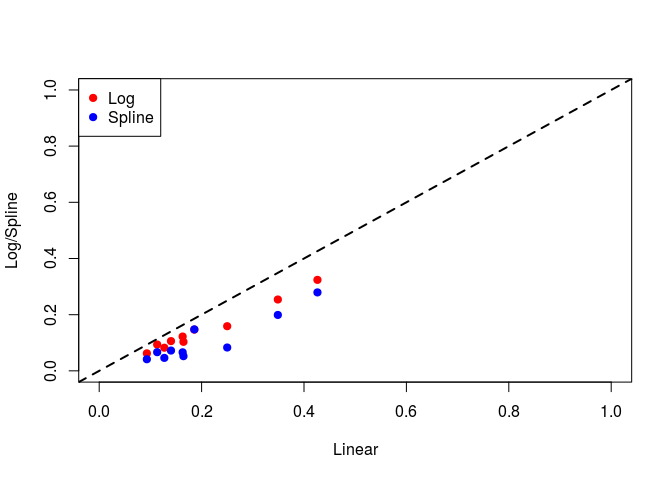
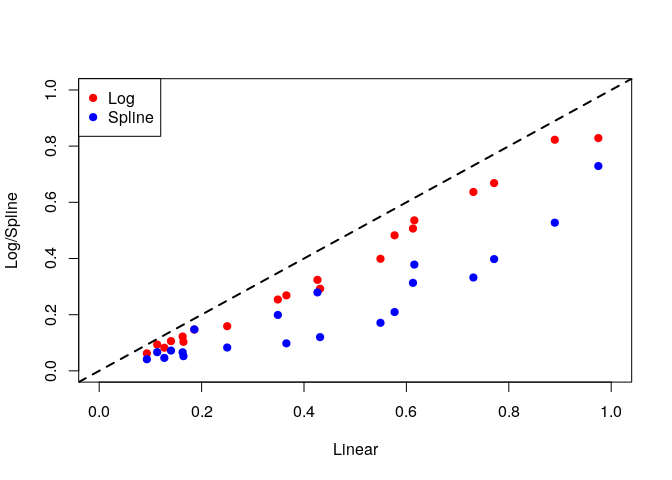
fix bug introduce by reformatting output

diff --git a/docs/competingRisk.md b/docs/competingRisk.md
@@ -6,6 +6,11 @@ We will use the same data that was used in Scrucca *et al* \[-@scrucca2010regres
 ``` r
 set.seed(12345)
 library(casebase)
+```
+
+    ## See example usage at http://sahirbhatnagar.com/casebase/
+
+``` r
 data(bmtcrr)
 head(bmtcrr)
 ```
@@ -191,13 +196,12 @@ summary(model1)
     ## Call:
     ## vglm(formula = formula, family = multinomial(refLevel = 1), data = sampleData)
     ## 
-    ## 
     ## Pearson residuals:
     ##                        Min       1Q   Median        3Q   Max
     ## log(mu[,2]/mu[,1]) -0.2240 -0.06967 -0.03872 -0.014616 46.24
     ## log(mu[,3]/mu[,1]) -0.3356 -0.08920 -0.03671 -0.008251 20.23
     ## 
-    ## Coefficients: 
+    ## Coefficients:
     ##                 Estimate Std. Error z value Pr(>|z|)    
     ## (Intercept):1  -3.527146   0.685168  -5.148 2.63e-07 ***
     ## (Intercept):2  -2.648451   0.463012  -5.720 1.06e-08 ***
@@ -223,6 +227,8 @@ summary(model1)
     ## Number of linear predictors:  2 
     ## 
     ## Names of linear predictors: log(mu[,2]/mu[,1]), log(mu[,3]/mu[,1])
+    ## 
+    ## Dispersion Parameter for multinomial family:   1
     ## 
     ## Residual deviance: 1409.076 on 26444 degrees of freedom
     ## 
@@ -250,13 +256,12 @@ summary(model2)
     ## Call:
     ## vglm(formula = formula, family = multinomial(refLevel = 1), data = sampleData)
     ## 
-    ## 
     ## Pearson residuals:
     ##                        Min       1Q   Median       3Q   Max
     ## log(mu[,2]/mu[,1]) -0.3728 -0.06889 -0.04686 -0.03489 29.01
     ## log(mu[,3]/mu[,1]) -0.7720 -0.07784 -0.05517 -0.04490 22.03
     ## 
-    ## Coefficients: 
+    ## Coefficients:
     ##                 Estimate Std. Error z value Pr(>|z|)    
     ## (Intercept):1  -3.947939   0.704805  -5.601 2.13e-08 ***
     ## (Intercept):2  -3.024184   0.464824  -6.506 7.71e-11 ***
@@ -283,6 +288,8 @@ summary(model2)
     ## 
     ## Names of linear predictors: log(mu[,2]/mu[,1]), log(mu[,3]/mu[,1])
     ## 
+    ## Dispersion Parameter for multinomial family:   1
+    ## 
     ## Residual deviance: 1503.138 on 26444 degrees of freedom
     ## 
     ## Log-likelihood: -751.5688 on 26444 degrees of freedom
@@ -308,13 +315,12 @@ summary(model3)
     ## Call:
     ## vglm(formula = formula, family = multinomial(refLevel = 1), data = sampleData)
     ## 
-    ## 
     ## Pearson residuals:
     ##                        Min       1Q   Median         3Q   Max
     ## log(mu[,2]/mu[,1]) -0.2112 -0.07072 -0.03924 -7.966e-03 55.79
     ## log(mu[,3]/mu[,1]) -0.2810 -0.09476 -0.01408 -9.698e-06 34.23
     ## 
-    ## Coefficients: 
+    ## Coefficients:
     ##                         Estimate Std. Error z value Pr(>|z|)    
     ## (Intercept):1          -3.756937   0.707736  -5.308 1.11e-07 ***
     ## (Intercept):2          -3.230327   0.512122  -6.308 2.83e-10 ***
@@ -345,6 +351,8 @@ summary(model3)
     ## 
     ## Names of linear predictors: log(mu[,2]/mu[,1]), log(mu[,3]/mu[,1])
     ## 
+    ## Dispersion Parameter for multinomial family:   1
+    ## 
     ## Residual deviance: 1392.237 on 26440 degrees of freedom
     ## 
     ## Log-likelihood: -696.1185 on 26440 degrees of freedom
@@ -366,10 +374,10 @@ splineRisk <- absoluteRisk(object = model3, time = 24, newdata = bmtcrr[1:10,])
 ```
 
 ``` r
-plot(linearRisk[,,1], logRisk[,,1],
+plot(linearRisk, logRisk,
      xlab = "Linear", ylab = "Log/Spline", pch = 19,
      xlim = c(0,1), ylim = c(0,1), col = 'red')
-points(linearRisk[,,1], splineRisk[,,1],
+points(linearRisk, splineRisk,
        col = 'blue', pch = 19)
 abline(a = 0, b = 1, lty = 2, lwd = 2)
 legend("topleft", legend = c("Log", "Spline"),
@@ -381,29 +389,33 @@ legend("topleft", legend = c("Log", "Spline"),
 We can also estimate the mean absolute risk for the entire dataset:
 
 ``` r
-mean(linearRisk[,,1])
+mean(linearRisk)
 ```
 
-    ## [1] 0.2012265
+    ## [1] 0.4265396
 
 ``` r
-mean(logRisk[,,1])
+mean(logRisk)
 ```
 
-    ## [1] 0.1453269
+    ## [1] 0.34474
 
 ``` r
-mean(splineRisk[,,1])
+mean(splineRisk)
 ```
 
-    ## [1] 0.105314
+    ## [1] 0.2164902
 
 Session information
 -------------------
 
-    ## R version 3.3.3 (2017-03-06)
+    ## R version 3.4.0 (2017-04-21)
     ## Platform: x86_64-pc-linux-gnu (64-bit)
-    ## Running under: Ubuntu 16.04.2 LTS
+    ## Running under: Ubuntu Zesty Zapus (development branch)
+    ## 
+    ## Matrix products: default
+    ## BLAS: /usr/lib/atlas-base/atlas/libblas.so.3.0
+    ## LAPACK: /usr/lib/atlas-base/atlas/liblapack.so.3.0
     ## 
     ## attached base packages:
     ## [1] stats     graphics  grDevices utils     datasets  methods   base     
@@ -412,13 +424,11 @@ Session information
     ## [1] casebase_0.1.0
     ## 
     ## loaded via a namespace (and not attached):
-    ##  [1] Rcpp_0.12.10       knitr_1.15.1       magrittr_1.5      
-    ##  [4] splines_3.3.3      munsell_0.4.3      lattice_0.20-35   
-    ##  [7] colorspace_1.3-2   stringr_1.2.0      plyr_1.8.4        
-    ## [10] tools_3.3.3        grid_3.3.3         data.table_1.10.4 
-    ## [13] gtable_0.2.0       htmltools_0.3.6    survival_2.40-1   
-    ## [16] yaml_2.1.14        lazyeval_0.2.0     rprojroot_1.2     
-    ## [19] digest_0.6.12      tibble_1.3.0       Matrix_1.2-8      
-    ## [22] ggplot2_2.2.1      VGAM_1.0-3         evaluate_0.10     
-    ## [25] rmarkdown_1.3.9003 stringi_1.1.5      scales_0.4.1      
-    ## [28] backports_1.0.5    stats4_3.3.3
+    ##  [1] Rcpp_0.12.9      knitr_1.15.1     magrittr_1.5     splines_3.4.0   
+    ##  [5] munsell_0.4.3    lattice_0.20-35  colorspace_1.3-1 stringr_1.2.0   
+    ##  [9] plyr_1.8.4       tools_3.4.0      grid_3.4.0       data.table_1.9.6
+    ## [13] gtable_0.2.0     htmltools_0.3.5  survival_2.41-3  yaml_2.1.14     
+    ## [17] lazyeval_0.2.0   rprojroot_1.2    digest_0.6.12    assertthat_0.1  
+    ## [21] tibble_1.2       Matrix_1.2-10    ggplot2_2.2.1    VGAM_1.0-2      
+    ## [25] evaluate_0.10    rmarkdown_1.3    stringi_1.1.2    compiler_3.4.0  
+    ## [29] scales_0.4.1     backports_1.0.5  stats4_3.4.0     chron_2.3-47
